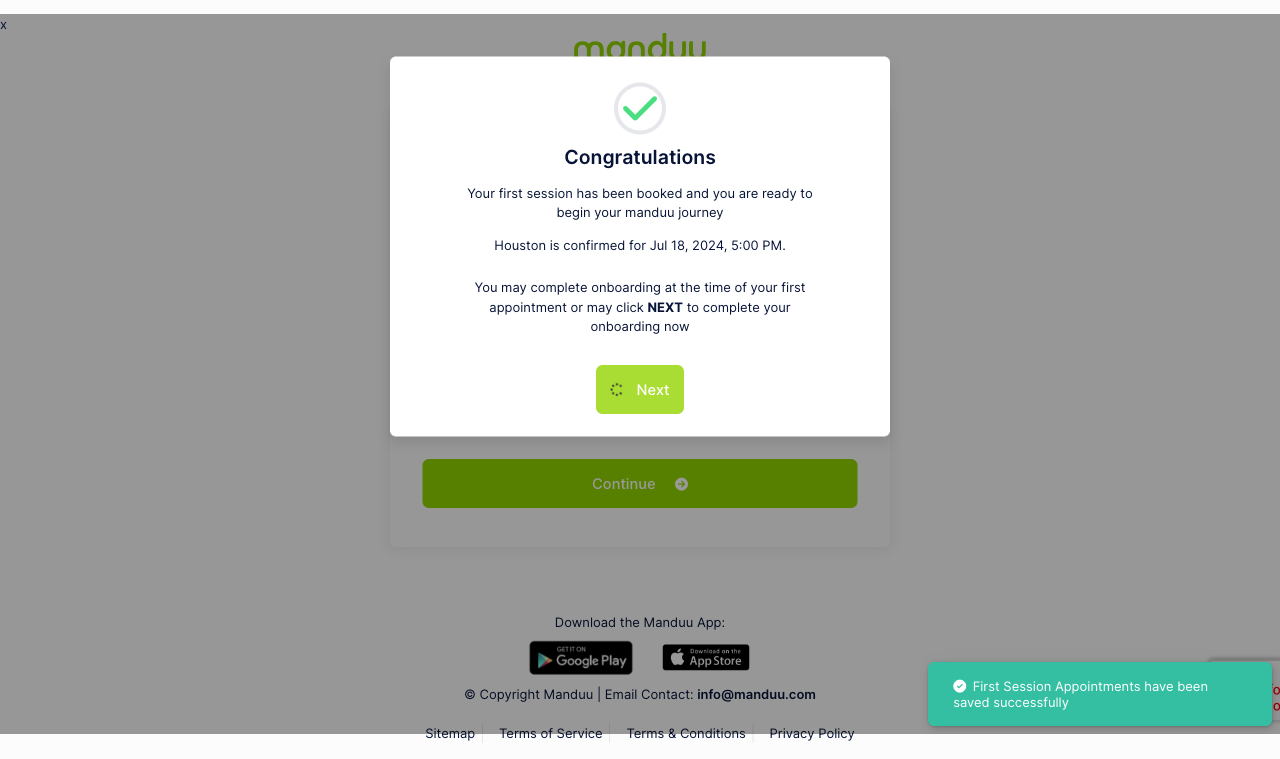
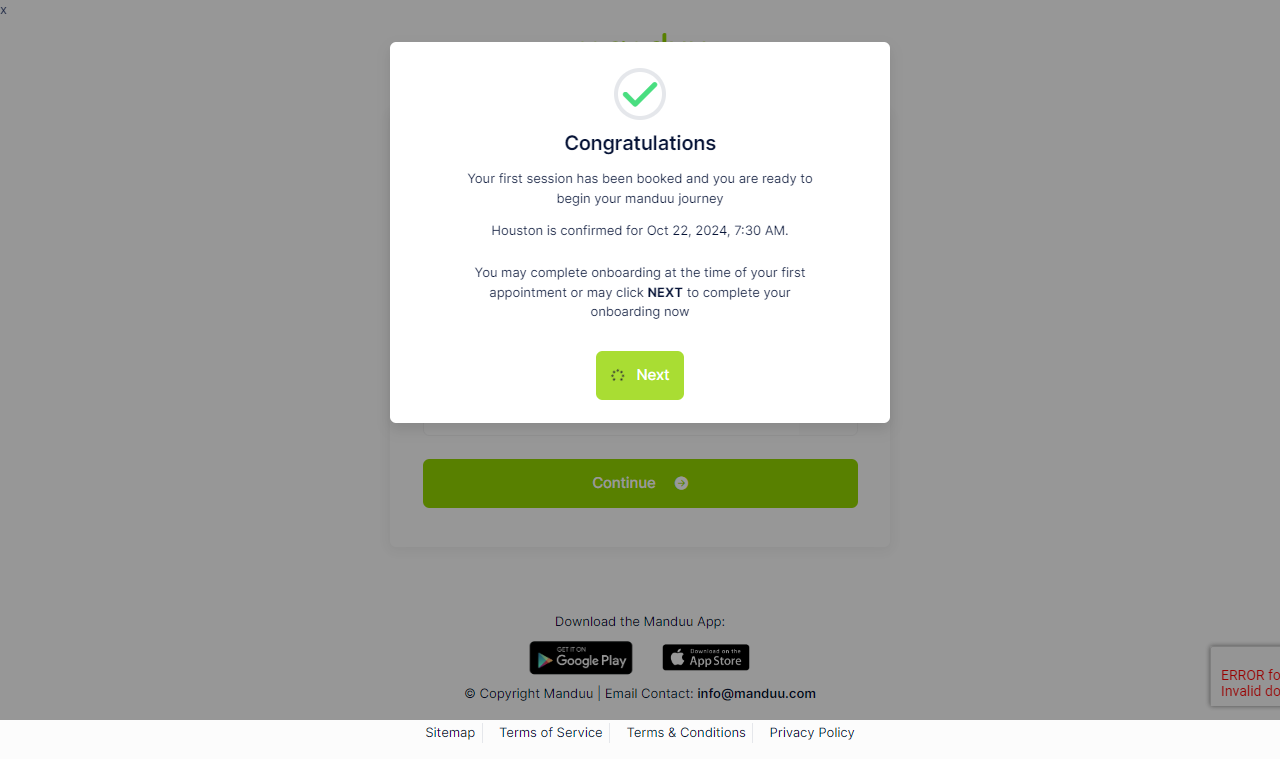
test2

diff --git a/tests/newonboarding.spec.ts b/tests/newonboarding.spec.ts
@@ -4,16 +4,16 @@ import { allure } from "allure-playwright";
 
 
 
-const email = 'manduu.test131@gmail.com';
+const email = 'manduu.test143@gmail.com';
 const password = 'TestUser@1'
-const PhoneNumber = '056-131-1111';
+const PhoneNumber = '056-142-1111';
 const fName = 'test';
 const lName ='automate'
 const tt ='me'
 const t ='me'
 
 const selectStu = 'Houston';
-const SelectedDate ='07/18/2024'
+const SelectedDate ='10/22/2024'
 let selectedTime: string | null = null;
 //const CalendarSelectedDate = 17 September, 2024
 // Convert selected date to calendar format
@@ -226,6 +226,7 @@ async function selectRandomTime(page: any) {
 
 
 }
+
 //Handle popups, if any.
 async function handlePopups(page: any) {
   try {
